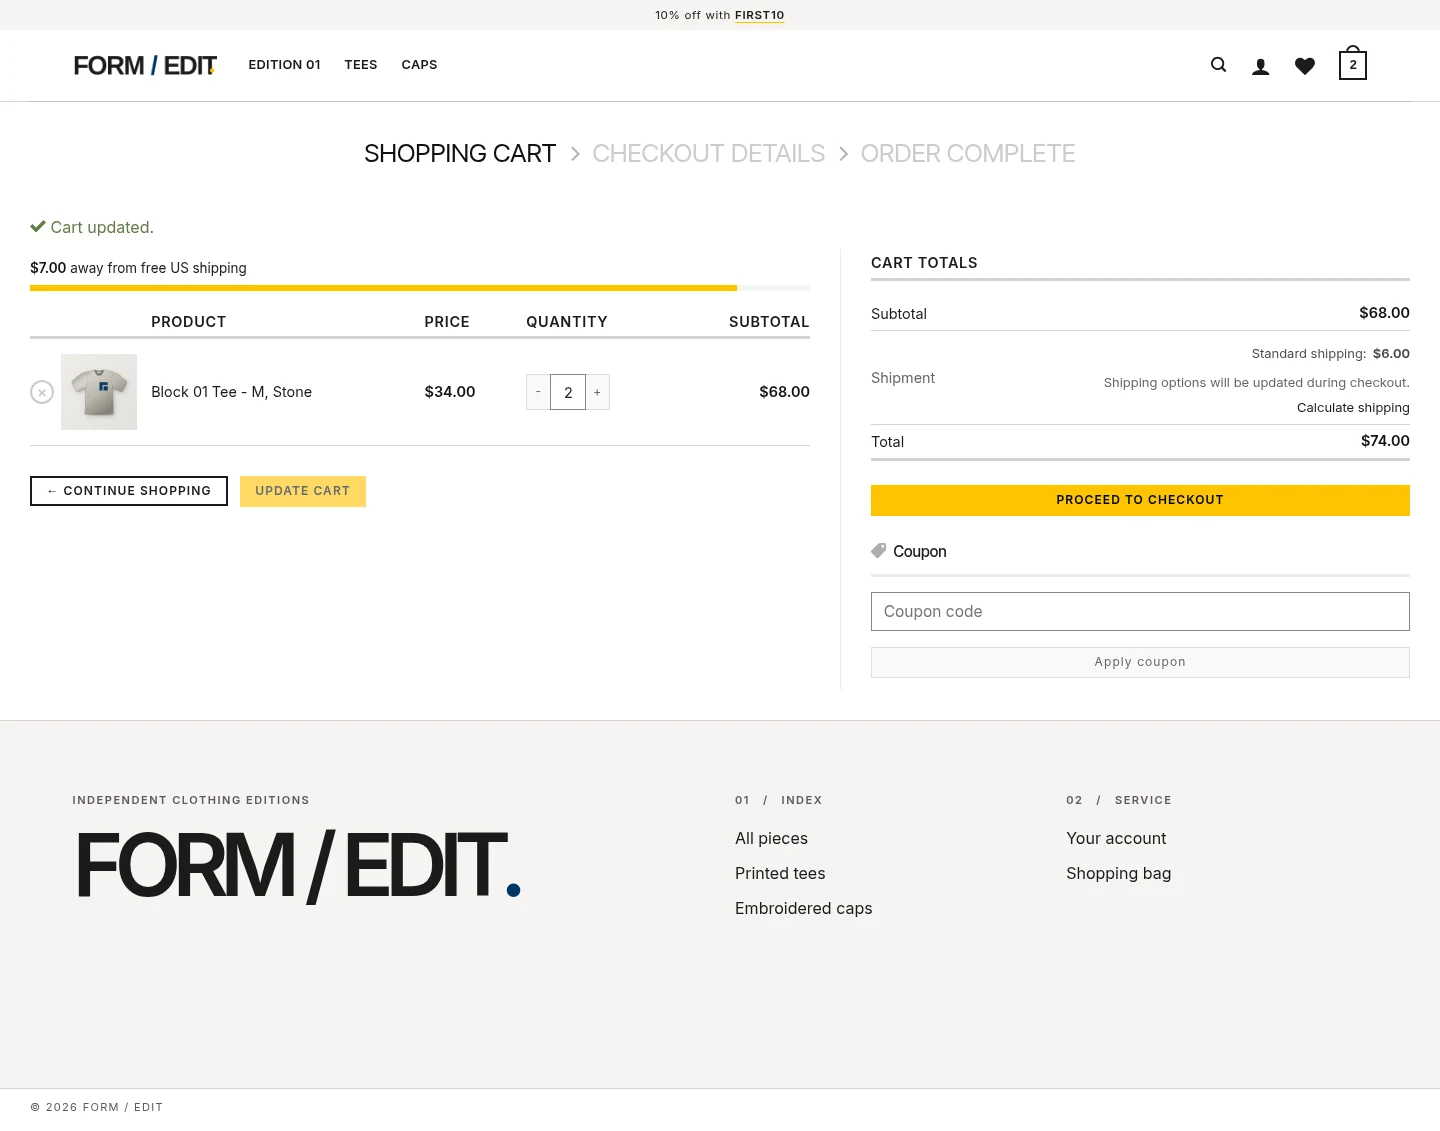
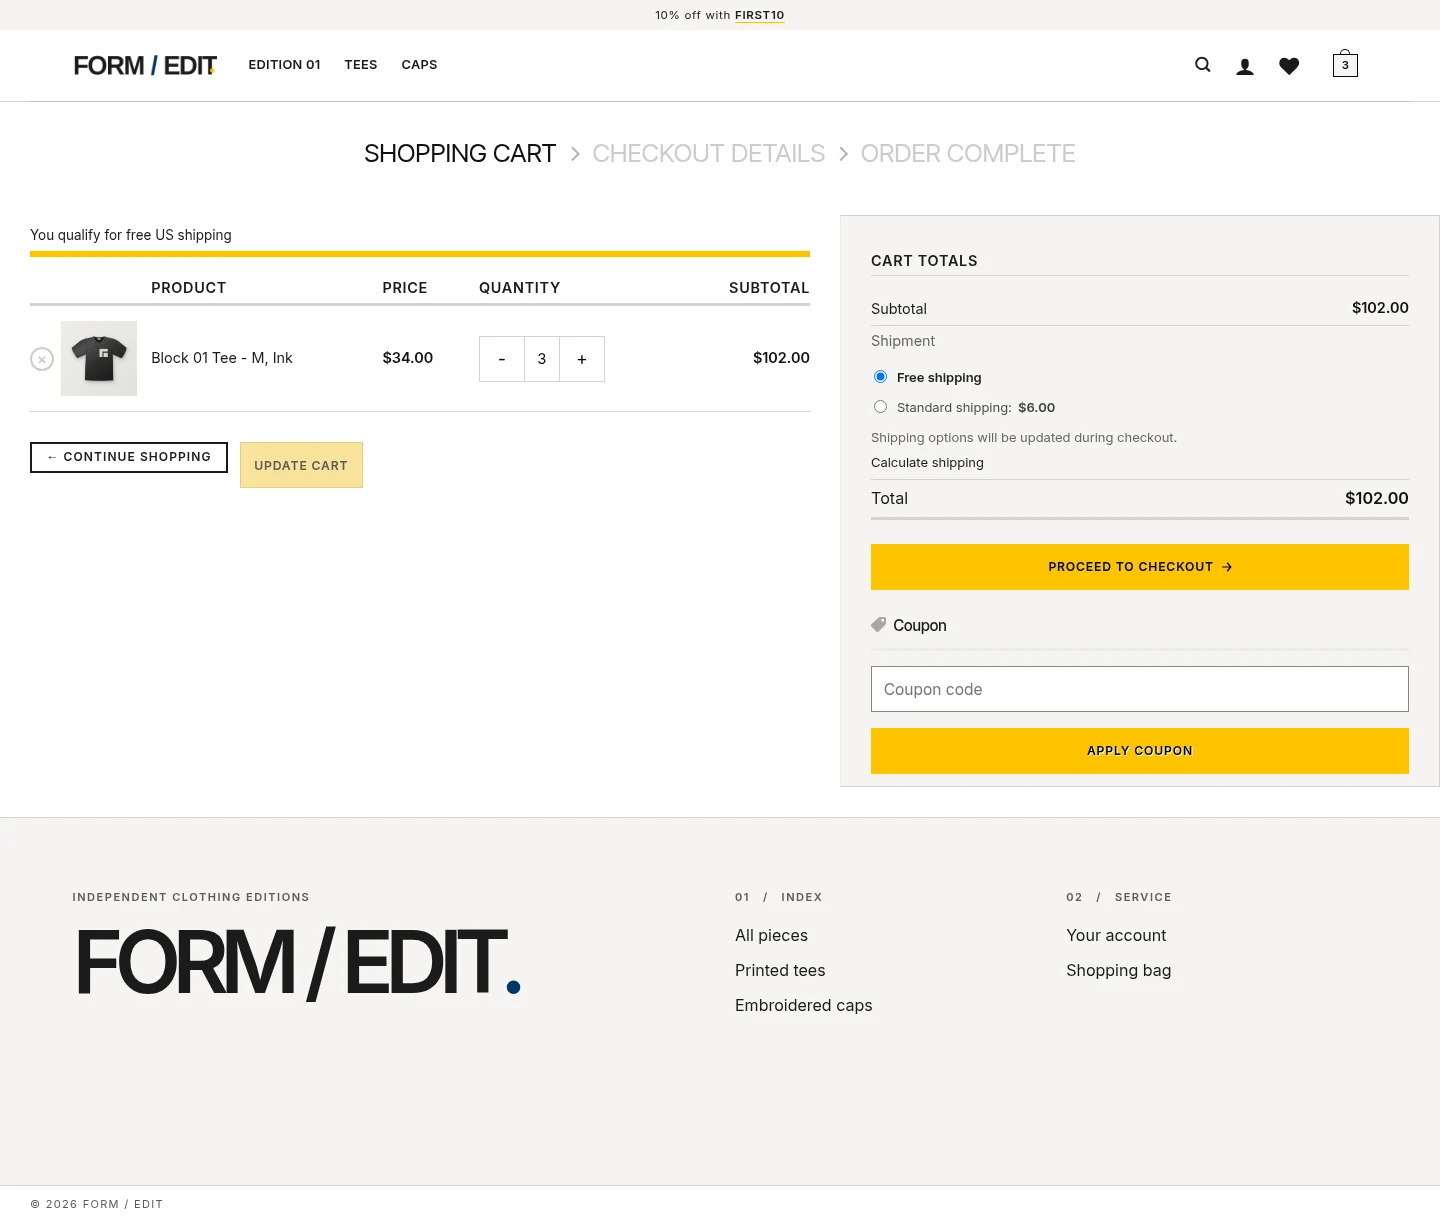
Polish FORM / EDIT cart controls and checkout

diff --git a/solana-merch/child-theme/solana-merch-child/assets/storefront.css b/solana-merch/child-theme/solana-merch-child/assets/storefront.css
@@ -197,14 +197,14 @@ body :focus-visible { outline: 2px solid var(--edit-navy); outline-offset: 3px; 
 .product-footer .product-section, .product-info .product_meta > span { border-color: var(--edit-rule); }
 .woocommerce-tabs .panel { max-width: 72ch; }
 
-body .button.primary:not(.is-outline, .is-link), body .button.alt, body .button.checkout,
+body .button.primary:not(.is-outline, .is-link, .ux-buy-now-button), body .button.alt, body .button.checkout,
 .woocommerce-cart .button.checkout-button, #cart-popup .woocommerce-mini-cart__buttons .button {
 	background-color: var(--edit-yellow);
 	border-color: var(--edit-yellow);
 	color: var(--edit-ink);
 	box-shadow: none;
 }
-body .button.primary:not(.is-outline, .is-link):hover, body .button.alt:hover, body .button.checkout:hover,
+body .button.primary:not(.is-outline, .is-link, .ux-buy-now-button):hover, body .button.alt:hover, body .button.checkout:hover,
 .woocommerce-cart .button.checkout-button:hover, #cart-popup .woocommerce-mini-cart__buttons .button:hover {
 	background-color: var(--edit-gold);
 	border-color: var(--edit-gold);
@@ -228,6 +228,216 @@ body th, body td { border-color: var(--edit-rule); }
 .off-canvas:has(#cart-popup, .mobile-sidebar) .mfp-close { color: var(--edit-text); opacity: 1; }
 #cart-popup .ux-mini-cart-footer { border-color: var(--edit-rule); }
 .woocommerce-message, .woocommerce-info { color: var(--edit-text); }
+
+.quantity.ux-quantity:not(.hidden) {
+	display: inline-flex;
+	align-items: stretch;
+	border: 1px solid var(--edit-rule);
+	background: var(--edit-paper);
+}
+.quantity.ux-quantity > :is(.ux-quantity__button, .qty) {
+	display: grid;
+	place-items: center;
+	width: 44px;
+	height: 44px;
+	min-height: 44px;
+	margin: 0;
+	padding: 0;
+	border: 0;
+	border-radius: 0;
+	background: var(--edit-paper);
+	box-shadow: none;
+	color: var(--edit-ink);
+	font-family: inherit;
+	font-variant-numeric: tabular-nums;
+	letter-spacing: normal;
+	line-height: 1;
+	text-align: center;
+}
+body .quantity.ux-quantity > .qty {
+	border-inline: 1px solid var(--edit-rule);
+	appearance: textfield;
+}
+.quantity .qty::-webkit-inner-spin-button,
+.quantity .qty::-webkit-outer-spin-button { appearance: none; margin: 0; }
+.quantity.ux-quantity > .ux-quantity__button { font-size: 1.1rem; }
+.quantity.ux-quantity > .ux-quantity__button:hover:not(:disabled) { background: var(--edit-gallery); }
+.quantity.ux-quantity > :focus-visible { position: relative; z-index: 1; outline-offset: -2px; }
+.ux-mini-cart-qty { flex-wrap: wrap; gap: 5px 10px; }
+
+body :is(.single_add_to_cart_button, .ux-buy-now-button, .woocommerce-mini-cart__buttons .button,
+	.checkout-button, .wc-block-components-checkout-place-order-button, [id="place_order"],
+	button[name="apply_coupon"], button[name="update_cart"], .wc-block-components-totals-coupon__button) {
+	display: inline-flex;
+	align-items: center;
+	justify-content: center;
+	gap: .65em;
+	min-height: 46px;
+	padding-inline: 1.1em;
+	border: 1px solid var(--edit-yellow);
+	border-radius: 0;
+	background: var(--edit-yellow);
+	box-shadow: none;
+	color: var(--edit-ink);
+	font-size: .76rem;
+	font-weight: 700;
+	letter-spacing: .07em;
+	line-height: 1.25;
+	text-transform: uppercase;
+	transition: background-color .18s, border-color .18s;
+}
+body :is(.single_add_to_cart_button, .checkout-button, .woocommerce-mini-cart__buttons .checkout,
+	.wc-block-components-checkout-place-order-button, [id="place_order"]):hover:not(:disabled, .disabled, .loading, [aria-disabled="true"]) {
+	background: var(--edit-gold);
+	border-color: var(--edit-gold);
+	color: var(--edit-ink);
+}
+body .button.ux-buy-now-button.primary, body #cart-popup .woocommerce-mini-cart__buttons .button:not(.checkout),
+body .woocommerce-cart :is(button[name="apply_coupon"], button[name="update_cart"]),
+body .wc-block-checkout .wc-block-components-totals-coupon__button {
+	background: var(--edit-paper);
+	border-color: var(--edit-ink);
+	color: var(--edit-ink);
+}
+body .button.ux-buy-now-button.primary:hover:not(:disabled, .disabled), body #cart-popup .woocommerce-mini-cart__buttons .button:not(.checkout):hover,
+body .woocommerce-cart :is(button[name="apply_coupon"], button[name="update_cart"]):hover:not(:disabled, [aria-disabled="true"]),
+body .wc-block-checkout .wc-block-components-totals-coupon__button:hover:not(:disabled, [aria-disabled="true"]) {
+	background: var(--edit-gallery);
+	border-color: var(--edit-ink);
+	color: var(--edit-ink);
+}
+body :is(.single_add_to_cart_button, .ux-buy-now-button, .checkout-button, .woocommerce-mini-cart__buttons .button,
+	.wc-block-components-checkout-place-order-button, [id="place_order"], button[name="apply_coupon"],
+	button[name="update_cart"], .wc-block-components-totals-coupon__button):is(:disabled, .disabled, [aria-disabled="true"]) {
+	background: var(--edit-gallery);
+	border-color: var(--edit-rule);
+	color: var(--edit-muted);
+	opacity: 1;
+	cursor: not-allowed;
+}
+body :is(.single_add_to_cart_button, .ux-buy-now-button, .checkout-button, .woocommerce-mini-cart__buttons .button,
+	.wc-block-components-checkout-place-order-button, [id="place_order"]):not(.loading, .added, .is-loading, :disabled, .disabled, [aria-disabled="true"])::after {
+	content: "";
+	width: .8em;
+	height: .8em;
+	background: currentColor;
+	clip-path: polygon(0 45%, 77% 45%, 49% 12%, 60% 2%, 100% 50%, 60% 98%, 49% 88%, 77% 55%, 0 55%);
+	transition: transform .18s;
+}
+body :is(.single_add_to_cart_button, .ux-buy-now-button, .checkout-button, .woocommerce-mini-cart__buttons .button,
+	.wc-block-components-checkout-place-order-button, [id="place_order"]):hover::after { transform: translateX(2px); }
+@media (prefers-reduced-motion: reduce) {
+	body :is(.single_add_to_cart_button, .ux-buy-now-button, .checkout-button, .woocommerce-mini-cart__buttons .button,
+		.wc-block-components-checkout-place-order-button, [id="place_order"])::after { transition: none; }
+}
+.cart_totals .wc-proceed-to-checkout .button, #cart-popup .woocommerce-mini-cart__buttons .button { display: flex; }
+body .header-cart-link { min-width: 44px; min-height: 44px; justify-content: center; }
+body .header-cart-link .cart-icon strong {
+	display: grid;
+	place-items: center;
+	min-width: 25px;
+	width: auto;
+	height: 23px;
+	padding-inline: 3px;
+	border: 1px solid var(--edit-ink);
+	background: var(--edit-gallery);
+	color: var(--edit-ink);
+	font-family: inherit;
+	font-size: .7rem;
+	font-variant-numeric: tabular-nums;
+	line-height: 1;
+}
+body .header-cart-link .cart-icon strong::after { border-width: 1px; border-color: var(--edit-ink); width: 10px; height: 6px; margin-left: -5px; }
+body .header-cart-link:hover .cart-icon strong { background: var(--edit-yellow); color: var(--edit-ink); }
+
+.woocommerce-cart .cart-collaterals, .woocommerce-order-received .woocommerce-order-overview {
+	padding: clamp(16px, 2.2vw, 30px);
+	border: 1px solid var(--edit-rule);
+	background: var(--edit-gallery);
+}
+.woocommerce-cart .cart-collaterals .product-name { border-bottom: 1px solid var(--edit-rule); }
+.woocommerce-cart .cart-collaterals .order-total { font-size: 1.12rem; }
+.woocommerce-cart .coupon input { min-height: 46px; }
+.woocommerce-order-received :is(.woocommerce-order-details__title, .woocommerce-column__title) { letter-spacing: -.025em; }
+
+.wc-block-checkout {
+	--wc-separator-color: var(--edit-rule);
+	--wc-form-border: #898782;
+	--wc-form-border-radius: 0px;
+}
+.wc-block-checkout .wc-block-components-checkout-step__heading {
+	padding-top: 14px;
+	border-top: 1px solid var(--edit-rule);
+}
+.wc-block-checkout .wc-block-components-checkout-step__title {
+	display: flex;
+	align-items: baseline;
+	gap: .65em;
+	font-size: clamp(1.1rem, 1.8vw, 1.35rem);
+	letter-spacing: -.035em;
+}
+.wc-block-checkout :is(.wp-block-woocommerce-checkout-contact-information-block,
+	.wp-block-woocommerce-checkout-shipping-address-block, .wp-block-woocommerce-checkout-payment-block) .wc-block-components-checkout-step__title::before {
+	color: var(--edit-muted);
+	font-size: .7rem;
+	font-weight: 500;
+	letter-spacing: .08em;
+}
+.wc-block-checkout .wp-block-woocommerce-checkout-contact-information-block .wc-block-components-checkout-step__title::before { content: "01" / ""; }
+.wc-block-checkout .wp-block-woocommerce-checkout-shipping-address-block .wc-block-components-checkout-step__title::before { content: "02" / ""; }
+.wc-block-checkout .wp-block-woocommerce-checkout-payment-block .wc-block-components-checkout-step__title::before { content: "03" / ""; }
+.wc-block-checkout :is(.wc-block-components-text-input input, .wc-blocks-components-select__select,
+	.wc-block-components-radio-control__option, .wc-block-components-radio-control-accordion-option) {
+	border-radius: 0;
+}
+.wc-block-checkout .wc-block-components-radio-control__option { min-height: 48px; }
+.wc-block-checkout :is(.wc-block-components-radio-control__option-checked, .wc-block-components-radio-control-accordion-option--checked-option-highlighted) {
+	background: var(--edit-gallery);
+}
+.wc-block-checkout .wp-block-woocommerce-checkout-order-summary-block {
+	border-radius: 0;
+	background: var(--edit-gallery);
+}
+.wc-block-checkout .wc-block-components-checkout-order-summary__title {
+	letter-spacing: .025em;
+}
+.wc-block-checkout .wc-block-components-totals-coupon-link {
+	min-height: 44px;
+	color: var(--edit-ink);
+	text-underline-offset: .28em;
+}
+.edit-checkout-notes {
+	display: flex;
+	flex-wrap: wrap;
+	gap: 6px 16px;
+	margin-block: 16px 0;
+	padding-block: 14px 0;
+	border-top: 1px solid var(--edit-rule);
+	color: var(--edit-muted);
+	font-size: .82rem;
+}
+.edit-checkout-notes > :first-child { font-weight: 700; color: var(--edit-text); }
+.edit-checkout-notes a { text-decoration: underline; text-underline-offset: .2em; }
+@media (min-width: 1024px) {
+	.wc-block-checkout .wc-block-checkout__sidebar {
+		align-self: start;
+		position: sticky;
+		top: 110px;
+	}
+}
+@media (max-width: 767px) {
+	.wc-block-checkout .wp-block-woocommerce-checkout-order-summary-block { padding-inline: 12px; }
+	.product-info .woocommerce-variation-add-to-cart:has(.ux-buy-now-button) {
+		display: grid;
+		grid-template-columns: auto minmax(0, 1fr);
+		gap: 8px;
+	}
+	body .product-info .woocommerce-variation-add-to-cart:has(.ux-buy-now-button) > :is(.quantity, .button) {
+		min-width: 0;
+		margin: 0;
+	}
+	.product-info .woocommerce-variation-add-to-cart > .ux-buy-now-button { grid-column: 1 / -1; }
+}
 
 .edit-footer {
 	padding-block: clamp(32px, 5vw, 74px) !important;

diff --git a/solana-merch/child-theme/solana-merch-child/style.css b/solana-merch/child-theme/solana-merch-child/style.css
@@ -2,6 +2,6 @@
 Theme Name: FORM / EDIT
 Description: An editorial Flatsome gallery for printed tees and embroidered caps.
 Template: flatsome
-Version: 2.2.0
+Version: 2.3.0
 Text Domain: solana-merch
 */

diff --git a/solana-merch/child-theme/solana-merch-child/functions.php b/solana-merch/child-theme/solana-merch-child/functions.php
@@ -53,6 +53,20 @@ function form_edit_shipping_progress() {
 add_action( 'woocommerce_before_cart_table', 'form_edit_shipping_progress' );
 add_action( 'woocommerce_widget_shopping_cart_before_buttons', 'form_edit_shipping_progress' );
 
+function form_edit_checkout_notes() {
+	$policy = get_privacy_policy_url();
+	return '<p class="edit-checkout-notes"><span>' . esc_html( is_ssl() ? 'Secure checkout' : 'Checkout details' ) . '</span>' .
+		( $policy ? ' <a href="' . esc_url( $policy ) . '">Privacy policy</a>' : '' ) .
+		'<span>For returns, keep your order number.</span></p>';
+}
+
+add_filter( 'render_block_woocommerce/checkout-actions-block', function ( $content ) {
+	return $content . form_edit_checkout_notes();
+} );
+add_action( 'woocommerce_review_order_after_submit', function () {
+	echo form_edit_checkout_notes(); // phpcs:ignore WordPress.Security.EscapeOutput.OutputNotEscaped -- Escaped in the renderer.
+} );
+
 function form_edit_delivery_date( $date, $days ) {
 	while ( $days > 0 ) {
 		$date = $date->modify( '+1 day' );

diff --git a/solana-merch/README.md b/solana-merch/README.md
@@ -41,18 +41,19 @@ Seed tạo 2 danh mục và 12 sản phẩm biến thể (6 áo, 6 mũ); áo có
 | Category Page — Printed tees | `/product-category/t-shirts/` | [Ảnh](previews/category-desktop-light.webp) | [Ảnh](previews/category-mobile-light.webp) |
 | Product Page — Block 01 Tee | `/product/carrier-wave/` | [Ảnh](previews/product-desktop-light.webp) | [Ảnh](previews/product-mobile-light.webp) |
 | Shop | `/shop/` | [Ảnh](previews/shop-desktop-light.webp) | — |
-| Cart | `/cart/` | [Ảnh](previews/cart-desktop-light.webp) | — |
+| Cart | `/cart/` | [Ảnh](previews/cart-desktop-light.webp) | [Ảnh](previews/cart-mobile-light.webp) |
 | Mini-cart | Mở biểu tượng túi hàng | [Ảnh](previews/mini-cart-desktop-light.webp) | — |
 | Quick View | Mở Quick View trên lưới Shop | [Ảnh](previews/quick-view-desktop-light.webp) | — |
 | Wishlist | `/wishlist/` | [Ảnh](previews/wishlist-desktop-light.webp) | — |
 | Tìm kiếm trực tiếp | Mở biểu tượng tìm kiếm | [Ảnh](previews/live-search-desktop-light.webp) | — |
-| Checkout | `/checkout/` | [Ảnh](previews/checkout-desktop-light.webp) | — |
+| Checkout | `/checkout/` | [Ảnh](previews/checkout-desktop-light.webp) | [Ảnh](previews/checkout-mobile-light.webp) |
 | Xác nhận đơn hàng | Sau khi đặt hàng | [Ảnh](previews/order-received-desktop-light.webp) | — |
 
 - **Homepage:** Pages → Home → **Edit with UX Builder**. Dùng Section, Row, Column, Text, Image, Button và Products gốc cho dải thông tin mua hàng, lookbook, câu chuyện, quy trình in/thêu, nhận xét mẫu và lưới ảnh tĩnh (không kết nối Instagram). Shortcode `[form_edit_newsletter]` gửi yêu cầu qua `wp_mail` đến email quản trị; cấu hình SMTP hoặc thay bằng biểu mẫu của dịch vụ email marketing trước khi mở bán. Demo không tự gửi newsletter hoặc thêm người dùng vào một danh sách bên ngoài.
 - **Category/Shop:** lưới hiển thị ảnh thứ hai khi rê chuột bằng thiết lập **Back Image – Fade In** của Flatsome. Mở **FORM / EDIT — Printed tees / Embroidered caps / Edition 01** trong **UX Blocks** để sửa banner. Nút **Filter collection** mở Shop Sidebar gốc; chỉnh các widget WooCommerce lọc size, màu và giá trong **Appearance → Widgets**. Size/màu toàn cục dùng riêng cho bộ lọc, không thay thuộc tính của biến thể đã có. Mẫu đầu mỗi danh mục có nhãn **New**; Flatsome hiển thị nhãn hết hàng khi sản phẩm thực sự hết hàng và cấu hình WooCommerce cho phép hiện sản phẩm đó.
 - **Product:** giữ layout **Stacked Right** của Flatsome. Swatch dùng JS nhẹ đồng bộ với ô chọn biến thể WooCommerce; nếu JS không chạy, dropdown vẫn hoạt động. **Size guide** mở lightbox gốc, các mục chất liệu/giao hàng/bảo quản dùng accordion; nội dung mẫu nằm ở `ux-builder/product-details.txt`. **Complete the look** dùng mục Upsells trong **Products → Linked Products**. Widget **Recently viewed** dùng cookie phiên WooCommerce và xuất hiện sau khi khách xem sản phẩm khác. Thanh mua hàng gốc trên mobile đưa khách về vùng chọn biến thể.
 - **Cart:** seed chuyển block WooCommerce Cart cấp ngoài cùng sang shortcode gốc `[woocommerce_cart]` để bộ đếm giỏ của Flatsome cập nhật khi đổi số lượng hoặc xóa sản phẩm. Seed lưu toàn bộ nội dung trước lần chuyển đổi đầu tiên trong post meta `_signal_original_cart_content` (bao gồm các block con tùy chỉnh) để có thể khôi phục; các block bên ngoài block giỏ hàng và trang thanh toán không bị thay thế.
+- **Mini-cart và checkout:** nút `−`/`+` trong mini-cart dùng cập nhật giỏ hàng gốc của Flatsome ngay trong ngăn giỏ. Checkout giữ block WooCommerce với tóm tắt đơn nằm bên cạnh trên desktop và có thể mở/thu gọn phía trên biểu mẫu trên mobile.
 - **Header/Footer:** chỉnh bằng **Theme Options → Header** và **Footer**; menu nằm ở **Appearance → Menus**, chân trang nằm trong **UX Blocks → FORM / EDIT Footer**.
 - `ux-builder/*.txt` là bản mã nguồn shortcode; seed điền các token `{{…}}` bằng URL, ID và nội dung thực. Nếu dán thủ công, đổi token trước khi lưu. Không ghi đè mẫu Flatsome hay WooCommerce.
 
@@ -63,6 +64,6 @@ Seed tạo 2 danh mục và 12 sản phẩm biến thể (6 áo, 6 mũ); áo có
 - **Quick View, tìm kiếm trực tiếp và Buy Now** dùng chức năng gốc của Flatsome. Trên trang sản phẩm, chọn biến thể trước khi bấm Buy Now; sản phẩm được thêm vào giỏ rồi chuyển sang checkout.
 - **Wishlist** dùng YITH WooCommerce Wishlist bản miễn phí. Nút tim và bộ đếm dùng Header Builder và tích hợp gốc của Flatsome; không đóng gói mã plugin.
 - **Ưu đãi:** top bar hiển thị mã **FIRST10** (giảm 10%, một lần mỗi khách). Sửa nội dung từ Header Builder → Top Bar → HTML 1 hoặc `ux-builder/promo-topbar.txt`; quản lý mã trong WooCommerce.
-- **Giao hàng demo ở Hoa Kỳ:** tiêu chuẩn $6, miễn phí từ $75 sau giảm giá. Thanh tiến độ ở giỏ và mini-cart dùng ngưỡng của phương thức WooCommerce trong vùng demo. Ước tính mặc định 3–5 ngày làm việc (bỏ qua thứ Bảy và Chủ nhật); chỉnh bằng filter `form_edit_delivery_business_days`.
+- **Giao hàng demo ở Hoa Kỳ:** tiêu chuẩn $6, miễn phí từ $75 sau giảm giá. Seed ưu tiên vùng giao hàng demo khi địa chỉ khớp nhiều vùng; các vùng cũ giữ nguyên thứ tự tương đối và phương thức. Thanh tiến độ ở giỏ và mini-cart dùng ngưỡng của phương thức WooCommerce trong vùng demo. Ước tính mặc định 3–5 ngày làm việc (bỏ qua thứ Bảy và Chủ nhật); chỉnh bằng filter `form_edit_delivery_business_days`.
 - **Đánh giá và tồn kho:** mỗi sản phẩm có một đánh giá mẫu được ghi rõ là “Sample review”; không phải đánh giá của khách thật. Bốn biến thể Stone có 2 sản phẩm để hiện thông báo sắp hết hàng. Seed đặt lại tồn kho mẫu khi chạy lại.
 - **Thanh toán khi giao hàng (COD)** được bật để thử checkout mà không cần thẻ. Trước khi mở bán, thay cấu hình giao hàng và thanh toán demo, xóa đánh giá mẫu, và đặt lại tồn kho cho đúng hàng thật.
